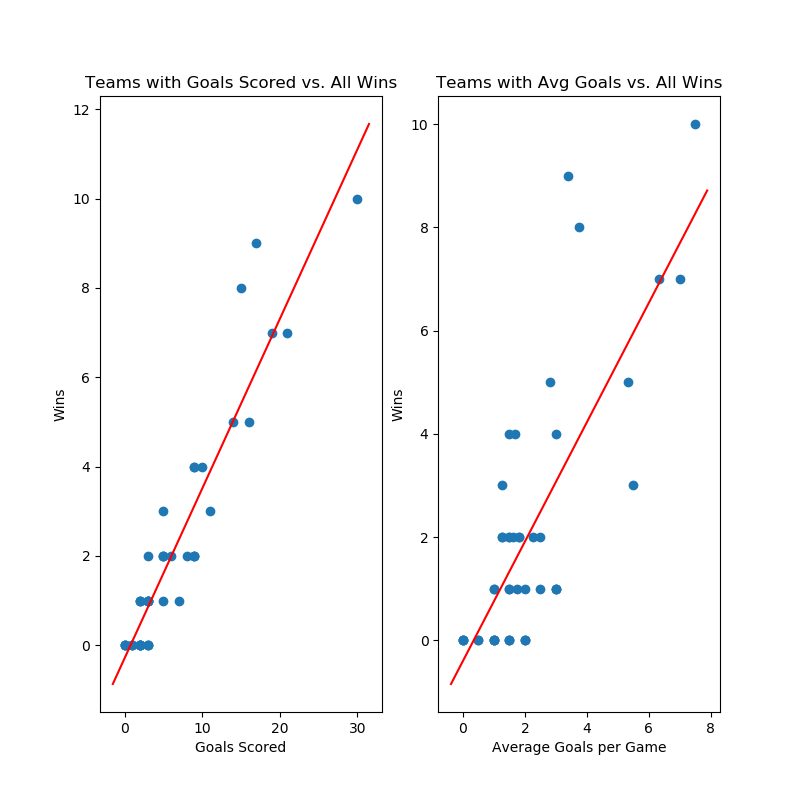
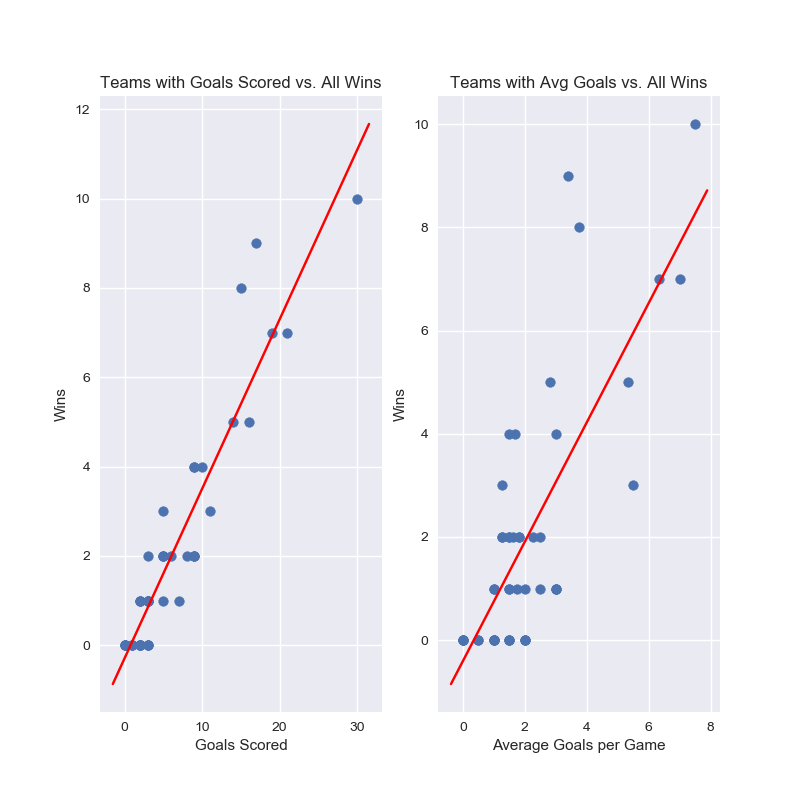
Seaborn plots.Final print statement

diff --git a/model.py b/model.py
@@ -8,7 +8,7 @@ from sklearn.linear_model import LinearRegression, Ridge
 from sklearn.metrics import r2_score, mean_squared_error
 from sklearn.model_selection import KFold
 import seaborn as sns
-
+sns.set()
 
 def create_linear_model(X_train,X_test,y_train,y_test):
     lin = LinearRegression()
@@ -61,13 +61,12 @@ def plot_scatters_with_bestfit(df):
     ax2.set_xlabel('Average Goals per Game')
     ax2.set_ylabel('Wins')
     ax2.set_title('Teams with Avg Goals vs. All Wins')
-    # plt.savefig('./images/2014stats.png')
 
 def plot_true_v_predicted(x,y_test,y_prediction):
     fig = plt.figure(figsize=(10,10))
     ax = fig.add_subplot(111)
-    ax.plot(test['Team'],y_test, color='tomato', label='True')
-    ax.plot(test['Team'],test_predictions, color='royalblue',label='Predicted')
+    ax.plot(x,y_test, color='tomato', label='True')
+    ax.plot(x,test_predictions, color='royalblue',label='Predicted')
     plt.xticks(rotation=90)
     ax.set_ylabel('Wins')
     ax.set_title('2014 World Cup True Wins vs. Predicted Wins')
@@ -110,7 +109,11 @@ if __name__ == '__main__':
 
     # R2 Score for sklearn and ols
     print("LinearRegression R2 score: {}".format(test_accuracy(y_test,test_predictions)))
-    # print(model.summary())
+    print(model.summary())
 
-    # find teams with most win predictions as winner of 2014s world cup
-    print("Predicted Winner: {}\nActual Winner: {}".format(max(test_predictions),max(y_test)))
+    # find team with highest wins prediction as winner of 2014s world cup
+    p_winner_index = np.argmax(test_predictions)
+    a_winner_index = np.argmax(y_test)
+    p_winner = test.iloc[p_winner_index,0]
+    a_winner = test.iloc[a_winner_index,0]
+    print("Predicted Winner: {}\nActual Winner: {}".format(p_winner,a_winner))

diff --git a/README.md b/README.md
@@ -43,7 +43,7 @@ Each dot lies a team and their fit for Goals Scored and Avg Goals versus All Win
 Here, I'm dealing with 64 matches in 2014 instead of 128 you can see in the previous image.
 
 Target Value: Number of Wins
-
+<br />
 Features:
 - All Goals Scored
 - Avg Goals Scored Per Game
@@ -56,7 +56,8 @@ After combining these correlating features with all wins, I trained a Linear Reg
 
 My predictions are very similar with the true number of wins. The two lines are very close.
 
-R2 score: 0.8516 <br />
+SKLearn R2 score: 0.8516 <br />
+OLS R2 score: 896 <br />
 Ridge Model MSE: 0.669  <!-- Maybe not include this?-->
 
 Based off these predictions, I would take the two tallest values as the teams who make it to the 2014 World Cup championship, which appears to be Germany and Netherlands with Germany winning it all(Blue line). In reality, the two teams in the championship was Germany and Argentina, but Germany did win it all! Argentina was not too far off in my predictions, however. They tied with Netherlands with a number of 7 wins. In conclusion, it looks like my prediction correctly guessed that Germany would take home the World Cup in 2014.
